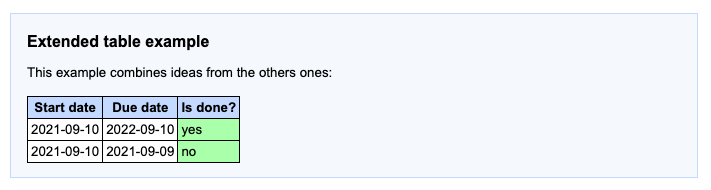
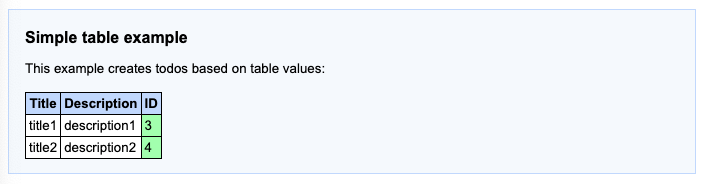
Wording angepasst und Tabellenbeispiel für Concordion überarbeitet

diff --git a/_posts/2021-10-17-Specification-by-Example.md b/_posts/2021-10-17-Specification-by-Example.md
@@ -41,14 +41,14 @@ Findet hierbei jetzt irgendein Austausch statt?
 
 ## Knowledge Sharing
 
-Folgt man diesem Vorgehen, kommt es allenfalls bei Problemen zu irgendeiner Form der Kommunikation.
-Beispielsweise wenn etwas nicht funktioniert, eine Fehlerklasse gänzlich übersehen wurde oder erst durch die vorhandene
-Umsetzung auftritt.
+In der Praxis findet dabei dann allenfalls irgendeine Form der Kommunikation statt, sobald Probleme auftreten und
+etwas nicht wie erwartet funktioniert, eine Fehlerklasse gänzlich übersehen wurde oder aufgrund der konkreten Umsetzung
+neue Fehlerfälle entstehen.
 
 Hier wäre es jetzt von Vorteil, wenn man die Sicht beider Gruppen einfängt:
-Das Entwicklungsteam betrachtet die Software von seiner technischen Seite und versuchet, alle ihm bekannten Probleme im Vorfeld
-zu berücksichtigen und zu verhindern.
-Das Teststeam nutzt seine Kenntnis des Produktes, Erfahrungen allgemein beim Testen von Software und natürlich
+Das Entwicklungsteam betrachtet die Software von seiner technischen Seite und versucht, alle ihm bekannten Probleme im
+Vorfeld zu berücksichtigen und zu verhindern.
+Das Testteam nutzt seine Kenntnis des Produktes, Erfahrungen allgemein beim Testen von Software und natürlich
 Testheuristiken, um Fehler aufzuspüren.
 
 Wie so oft in unserer Branche ist Kommunikation der Schlüssel für dieses Problem:
@@ -58,9 +58,9 @@ aufwändige Nacharbeiten begrenzt und die Abläufe beschleunigt werden.
 ## Three Amigos
 
 **Three Amigos** oder **Specification Workshop** ist ein Format, um genau dieses Vorgehen zu ermöglichen:
-Wenn ein neues Feature geplant wird, kommen der beauftragende **Stakeholder**, ein Verantwortlicher aus dem **Entwicklungsteam** und
-ein Verantwortlicher aus dem **Testteam** zusammen und besprechen, *was* und vor allem *wie* dies umgesetzt werden soll und wie später überprüft
-werden kann, dass die Aufgabe abgeschlossen wurde.
+Wenn ein neues Feature geplant wird, kommen der beauftragende **Stakeholder**, ein Verantwortlicher aus dem
+**Entwicklungsteam** und ein Verantwortlicher aus dem **Testteam** zusammen und besprechen, *was* und vor allem *wie*
+dies umgesetzt werden soll und wie später überprüft werden kann, dass die Aufgabe abgeschlossen wurde.
 
 Hierbei ist dieses Format vollkommen offen, mögliche Ergebnisse können einfache Notizen (beispielsweise an der
 Userstory im agilen Feld) oder komplette Tabellen mit konkreten Randbedingungen sein.
@@ -72,13 +72,11 @@ die weiteren Schritte abhängen.
 
 # Tools
 
-Die nächsten Beispiele zeigen anhand von zwei konkreten Testfällen an einer einfachen Todo-App (auf Basis von
-[Quarkus][12]), wie diese Tools verwendet werden können.
+Die nächsten Beispiele zeigen anhand eines konkreten Testfalls an einer einfachen Todo-App (auf Basis von
+[Quarkus][12]) wie Todo-Einträge erzeugt und die hier vorgestellten Tools verwendet werden können.
+
 Die Todo-App selbst bietet eine einfache REST-Schnittstelle, über die sie u.a. Daten entgegennimmt und in-memory
 persistiert.
-
-Im ersten Testfall sollen jeweils neue Einträge erzeugt werden und im zweiten wird überprüft, ob ein Todo automatisch
-als erledigt markiert wird, wenn das Ablaufdatum überschritten wird.
 
 Sämtliche Beispiele können im folgenden Repository eingesehen werden:
 
@@ -89,7 +87,7 @@ Sämtliche Beispiele können im folgenden Repository eingesehen werden:
 ### Einleitung
 
 Als erstes Tool wollen wir uns [Cucumber][5] ansehen, welches vermutlich das bekannteste zum Thema
-[Behavior-Driven Development][1] ist.
+[Behavior-Driven Development][1] (kurz **BDD**) ist.
 [Cucumber][5] verwendet ein leicht verständliches [given-when-then][16]-Format (ursprünglich von [Dan North][6]
 entwickelt) namens [Gherkin][9], um strukturierte Testfälle zu schreiben und sukzessive eine
 [Domain-Specific Language][7] für die Fachdomäne zu entwickeln.
@@ -125,7 +123,7 @@ Randbedingungen aus einem vorherigen **Specification Workshop** sein könnten.
 Hierbei wird bewusst auf natürliche Sprache gesetzt und es stehen Bindings für [weitere Sprachen][17] zur Verfügung.
 
 Nachdem die Features und Szenarien definiert wurden muss noch der entsprechende _Glue Code_ in Form von **Stepfiles**
-ergänzt werden, hier einmal auszugsweise:
+ergänzt werden, einen Auszug daraus sehen wir uns hier an:
 
 ```java
 public class TodoSteps {
@@ -239,8 +237,8 @@ public class TodoEndpointFitnesseFixture {
 ```
 
 [FitNesse][8] greift im Testlauf direkt auf die Methoden des **Fixtures** zu:
-Somit wird aus der Spalte **title** ein Aufruf des Getters `setTitle` und analog dazu aus der Spalte **id** ein Aufruf des
-Setters `id`.
+Somit wird aus der Spalte **title** ein Aufruf des Getters `getTitle` und analog dazu sorgt die Spalte **id** für
+einen Aufruf des Setters `id`.
 
 Im Browser selbst kann dann mittels Klick auf **Test** der Test gestartet werden und die Elemente der Seite werden
 je nach Testergebnis dann farblich hervorgehoben:
@@ -334,19 +332,19 @@ as ID [1](- "?=#result.getId").
 Und abschließend dazu sind natürlich ebenfalls Tabellen in [Concordion][2] möglich:
 
 ```markdown
-### [Extended table example](- "extended_table")
+### [Simple table example](- "simple_table")
 
-This example combines ideas from the others ones:
+This example creates todos based on table values:
 
-| [createWithDate][][Start date][start] | (Due date][due] | (Is done?][done] |
-| ------------------------------------- | --------------- | ---------------- |
-| 2021-09-10                            | 2022-09-10      | undone           |
-| 2021-09-10                            | 2021-09-09      | done             |
+| [createAndSave][][Title][title] | [Description][description] | [ID][id] |
+| ------------------------------- | -------------------------- | -------- |
+| title1                          | description1               | 3        |
+| title2                          | description2               | 4        |
 
-[createWithDate]: - "#result = createWithDate(#start,#due)"
-[start]: - "#start"
-[due]: - "#due"
-[done]: - "?=isDone(#result)"
+[createAndSave]: - "#result = createAndSave(#title,#description)"
+[title]: - "#title"
+[description]: - "#description"
+[id]: - "?=#result.getId"
 ```
 
 Hierbei müssen dann auch lediglich die Spaltennamen mit der Logik versehen werden, sodass die Tabellen selbst
